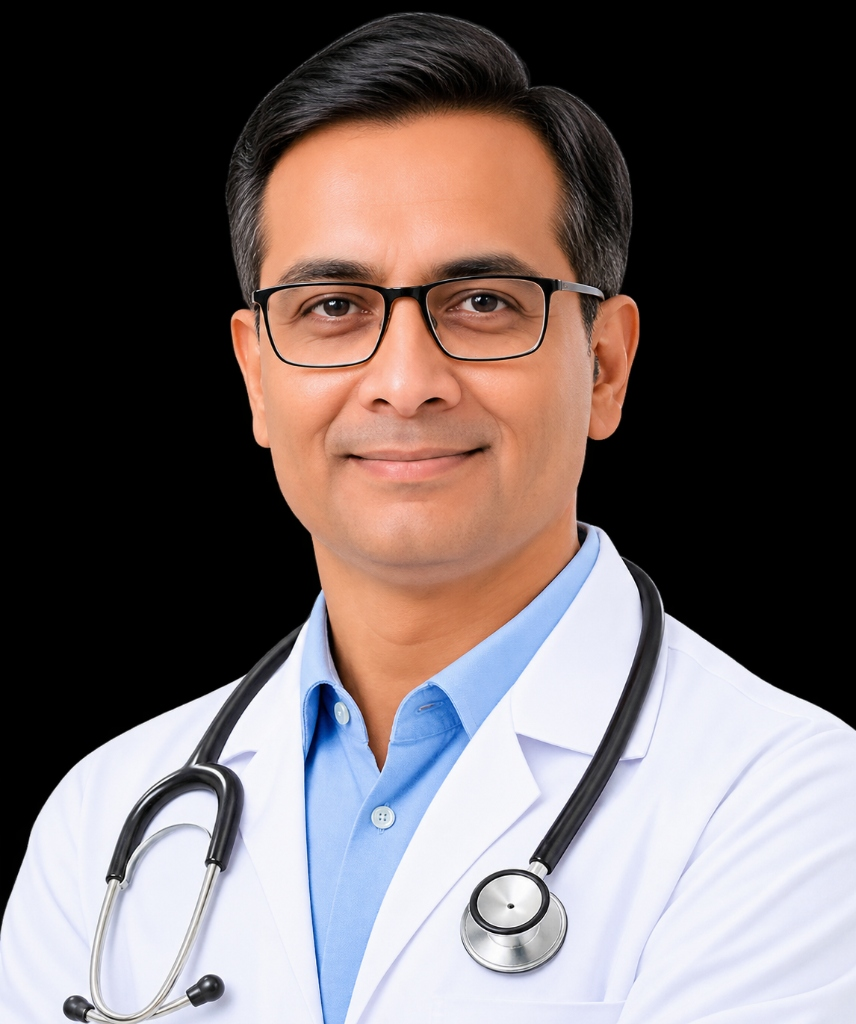
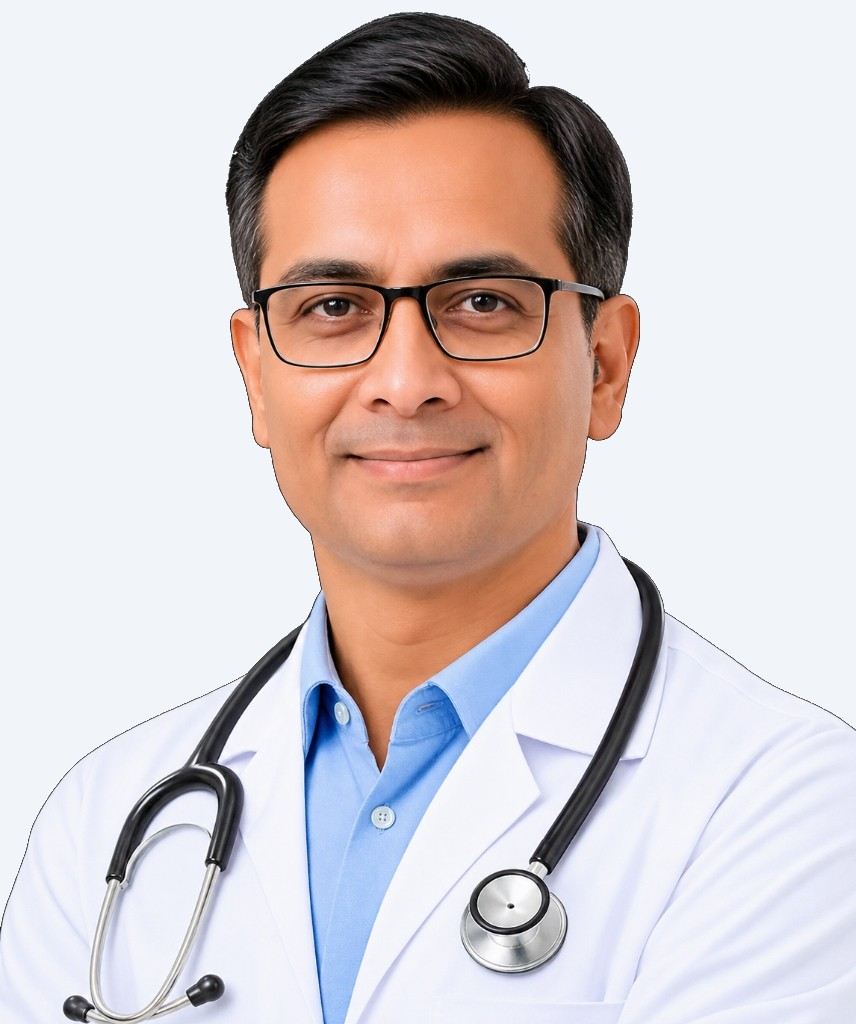
style: change background of diagnostic test images and doctor photos to matching light grey (#F1F5F9)

diff --git a/src/pages/DoctorAppointmentPage.jsx b/src/pages/DoctorAppointmentPage.jsx
@@ -460,8 +460,8 @@ export default function DoctorAppointmentPage() {
                 >
                   <div className="flex items-start gap-3.5 sm:gap-4">
                     
-                    {/* Doctor Avatar - Uses provided image */}
-                    <div className="w-20 h-20 sm:w-22 sm:h-22 rounded-2xl overflow-hidden shrink-0 border border-slate-200 shadow-2xs bg-slate-900 relative">
+                    {/* Doctor Avatar - Uses provided image with light grey background */}
+                    <div className="w-20 h-20 sm:w-22 sm:h-22 rounded-2xl overflow-hidden shrink-0 border border-slate-200 shadow-2xs bg-slate-100 relative">
                       <img
                         src={doc.avatar}
                         alt={doc.name}
@@ -1001,7 +1001,7 @@ export default function DoctorAppointmentPage() {
                 {/* Doctor Selection Pill */}
                 <div className="p-3.5 bg-slate-50 rounded-2xl border border-slate-200 flex items-center justify-between gap-3">
                   <div className="flex items-center gap-3">
-                    <div className="w-12 h-12 rounded-xl overflow-hidden bg-slate-900 border border-slate-200 shrink-0">
+                    <div className="w-12 h-12 rounded-xl overflow-hidden bg-slate-100 border border-slate-200 shrink-0">
                       <img 
                         src={bookingDoctor?.avatar || '/doctor-amit-sharma.jpg'} 
                         alt={bookingDoctor?.name}

diff --git a/src/components/PopularMedicinesAndTests.jsx b/src/components/PopularMedicinesAndTests.jsx
@@ -289,7 +289,7 @@ export default function PopularMedicinesAndTests({ onSelectProduct, onSelectTest
                     </button>
 
                     {/* Diagnostic Test Image */}
-                    <div className="w-full h-24 rounded-xl overflow-hidden bg-slate-50 flex items-center justify-center mb-2.5">
+                    <div className="w-full h-24 rounded-xl overflow-hidden bg-[#F1F5F9] flex items-center justify-center mb-2.5">
                       <img
                         src={test.image}
                         alt={test.name}
